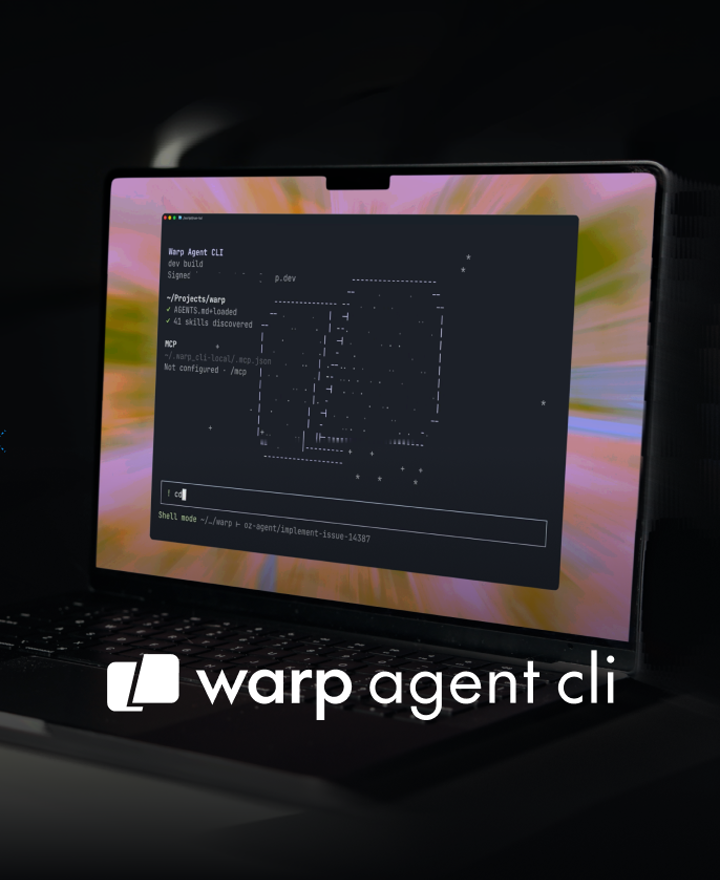
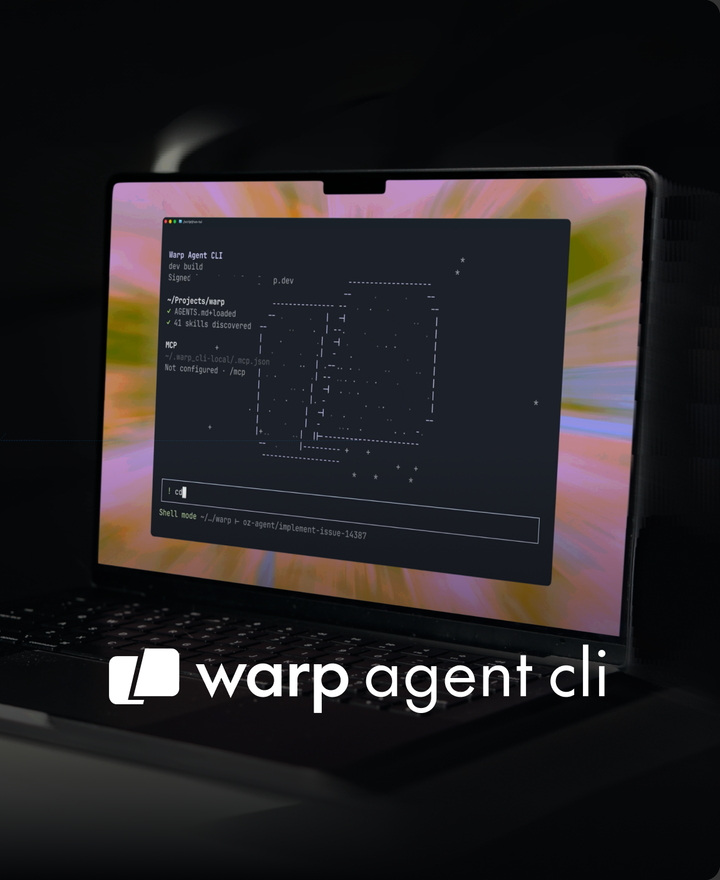
Address review: open CLI quickstart from the CTA, sharpen hero, cover new-user path
- "Get started" now opens https://docs.warp.dev/cli/quickstart/ before
  dismissing, via a dedicated GetStarted action.
- Re-captured the hero from Figma at 320% and downscaled to the same 2x
  720x880 slot. Same dimensions, 1.49x the high-frequency detail, and
  80KB smaller (490KB -> 410KB).
- Added coverage for the AuthComplete new-user branch, which pre-dismisses
  the modal so fresh signups never see it on their second startup.

diff --git a/app/src/workspace/one_time_modal_model_tests.rs b/app/src/workspace/one_time_modal_model_tests.rs
@@ -3,8 +3,8 @@ use warp_core::features::FeatureFlag;
 use warpui::{App, SingletonEntity};
 
 use super::{
-    AISettings, FEATURE_INTROS, FeatureIntroId, FreeAiRemovalModalDecision, OneTimeModalModel,
-    free_ai_removal_modal_decision,
+    AISettings, AuthManager, AuthManagerEvent, AuthStateProvider, FEATURE_INTROS, FeatureIntroId,
+    FreeAiRemovalModalDecision, OneTimeModalModel, free_ai_removal_modal_decision,
 };
 use crate::test_util::terminal::{add_window_with_terminal, initialize_app_for_terminal_view};
 use crate::workspaces::workspace::CustomerType;
@@ -322,6 +322,37 @@ fn agent_cli_launch_modal_shows_at_most_once() {
                 assert!(!model.is_agent_cli_launch_modal_open);
                 assert!(!model.check_and_trigger_agent_cli_launch_modal(ctx));
             });
+        });
+    });
+}
+
+#[test]
+fn agent_cli_launch_modal_pre_dismissed_for_new_users_on_auth_complete() {
+    App::test((), |mut app| async move {
+        initialize_app_for_terminal_view(&mut app);
+        let terminal = add_window_with_terminal(&mut app, None);
+
+        terminal.update(&mut app, |_, ctx| {
+            // Building the model installs the AuthComplete subscription under test.
+            let _model = OneTimeModalModel::handle(ctx);
+
+            // A user who hasn't completed onboarding is a fresh signup.
+            AuthStateProvider::as_ref(ctx).get().set_is_onboarded(false);
+            assert_eq!(
+                AuthStateProvider::as_ref(ctx).get().is_onboarded(),
+                Some(false)
+            );
+            assert!(!*AISettings::as_ref(ctx).did_check_to_trigger_agent_cli_launch_modal);
+
+            AuthManager::handle(ctx).update(ctx, |_, ctx| {
+                ctx.emit(AuthManagerEvent::AuthComplete);
+            });
+        });
+
+        // Without this pre-dismissal a new signup would be shown the modal on
+        // their second startup, right after onboarding.
+        app.read(|ctx| {
+            assert!(*AISettings::as_ref(ctx).did_check_to_trigger_agent_cli_launch_modal);
         });
     });
 }

diff --git a/app/src/workspace/view/agent_cli_launch_modal/view.rs b/app/src/workspace/view/agent_cli_launch_modal/view.rs
@@ -25,6 +25,7 @@ const COLUMN_PADDING: f32 = 32.;
 const CONTENT_WIDTH: f32 = COLUMN_WIDTH - COLUMN_PADDING * 2.;
 const CARD_RADIUS: f32 = 8.;
 const HERO_IMAGE_PATH: &str = "async/png/onboarding/agent_cli_launch_banner.png";
+const GET_STARTED_URL: &str = "https://docs.warp.dev/cli/quickstart/";
 
 fn modal_background(appearance: &Appearance) -> Fill {
     appearance.theme().surface_3()
@@ -92,6 +93,7 @@ pub fn init(app: &mut AppContext) {
 #[derive(Clone, Debug)]
 pub enum AgentCliLaunchModalAction {
     Close,
+    GetStarted,
 }
 
 #[derive(Clone, Debug)]
@@ -154,7 +156,7 @@ impl AgentCliLaunchModal {
         let get_started_button = ctx.add_view(|_ctx| {
             ActionButton::new("Get started", CtaButtonTheme)
                 .with_full_width(true)
-                .on_click(|ctx| ctx.dispatch_typed_action(AgentCliLaunchModalAction::Close))
+                .on_click(|ctx| ctx.dispatch_typed_action(AgentCliLaunchModalAction::GetStarted))
         });
 
         Self {
@@ -369,6 +371,10 @@ impl TypedActionView for AgentCliLaunchModal {
     fn handle_action(&mut self, action: &Self::Action, ctx: &mut ViewContext<Self>) {
         match action {
             AgentCliLaunchModalAction::Close => {
+                ctx.emit(AgentCliLaunchModalEvent::Close);
+            }
+            AgentCliLaunchModalAction::GetStarted => {
+                ctx.open_url(GET_STARTED_URL);
                 ctx.emit(AgentCliLaunchModalEvent::Close);
             }
         }
